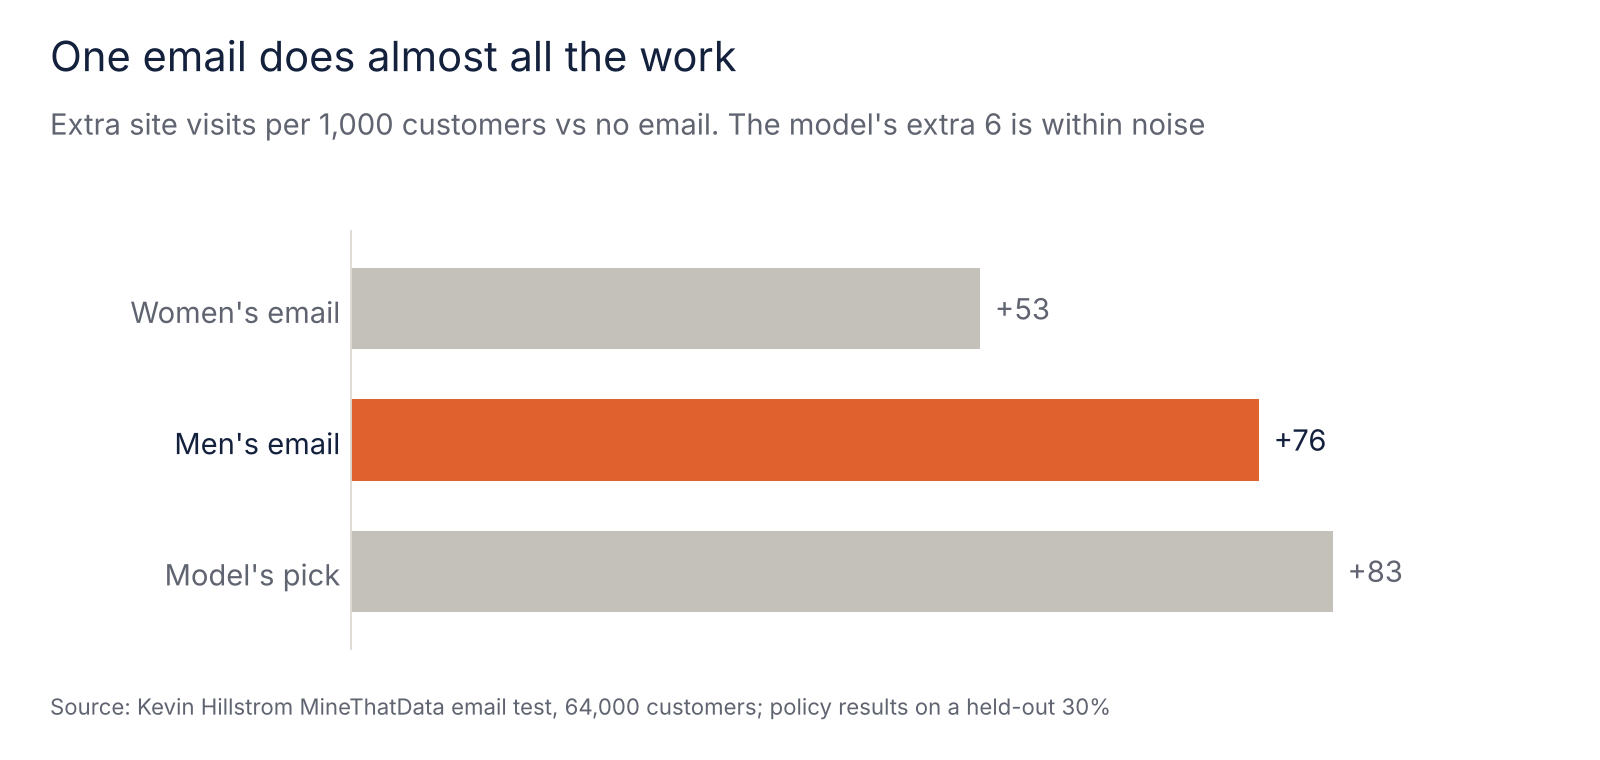
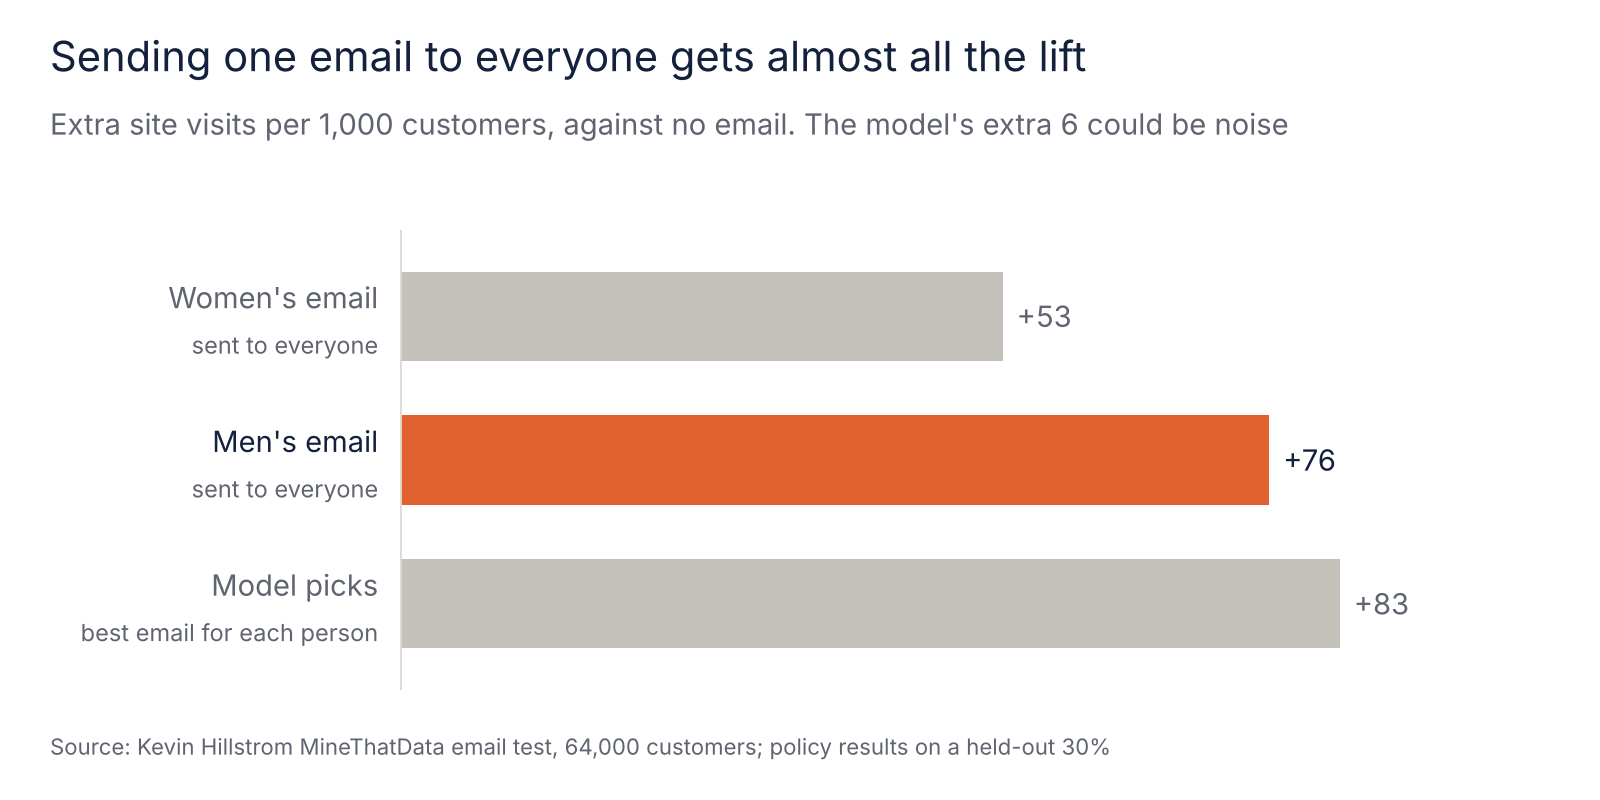
Charts a first-time reader can follow: plain headlines and explained labels

diff --git a/scripts/brand_style.py b/scripts/brand_style.py
@@ -8,6 +8,7 @@ Colours are validated with the dataviz palette checks (lightness band, chroma, c
 import matplotlib
 import matplotlib.pyplot as plt
 import matplotlib.ticker
+import matplotlib.transforms
 
 INK = "#14213d"        # navy: headlines, values, key labels
 MUTED = "#5f6470"      # deck, axis labels, source line (5.9:1 on white)
@@ -93,9 +94,9 @@ VALUE = 10.5                                         # value and category label 
 
 def chart(height=4.5, label_in=1.6, xaxis=False, right_in=0.55):
     """A figure with fixed margins. label_in is the room for category labels on the left;
-    xaxis reserves room for tick labels under the plot."""
+    xaxis reserves room under the plot: True for tick labels plus an axis title, "ticks" for tick labels only."""
     fig = plt.figure(figsize=(WIDTH, height), dpi=200)
-    bottom_in = 1.0 if xaxis else 0.55
+    bottom_in = 0.8 if xaxis == "ticks" else 1.0 if xaxis else 0.55
     left = (LEFT_IN + label_in) / WIDTH
     ax = fig.add_axes([left, bottom_in / height, 1 - left - right_in / WIDTH,
                        1 - (PLOT_TOP_IN + bottom_in) / height])
@@ -123,7 +124,23 @@ def save(fig, path):
     plt.close(fig)
 
 
-def hbar(ax, labels, values, highlight, fmt, color, xmax=None):
+def _row_labels(ax, ys, labels, highlight, sublabels=None):
+    """Category labels at the left of the plot, with an optional smaller second line that explains them."""
+    ax.set_yticks(ys)
+    if not sublabels:
+        ax.set_yticklabels(labels)
+        for i, t in enumerate(ax.get_yticklabels()):
+            t.set_color(INK if i in highlight else MUTED)
+        return
+    ax.set_yticklabels([""] * len(ys))
+    tr = matplotlib.transforms.blended_transform_factory(ax.transAxes, ax.transData)
+    for i, (y, lab, sub) in enumerate(zip(ys, labels, sublabels)):
+        ax.text(-0.02, y + 0.13, lab, transform=tr, ha="right", va="center", fontsize=VALUE,
+                color=INK if i in highlight else MUTED)
+        ax.text(-0.02, y - 0.2, sub, transform=tr, ha="right", va="center", fontsize=8.5, color=MUTED)
+
+
+def hbar(ax, labels, values, highlight, fmt, color, xmax=None, sublabels=None):
     """Horizontal bars, first item at the top. highlight: set of indexes drawn in the project colour."""
     n = len(values)
     ys = list(range(n))[::-1]
@@ -133,14 +150,13 @@ def hbar(ax, labels, values, highlight, fmt, color, xmax=None):
     for y, v, i in zip(ys, values, range(n)):
         c = color if i in highlight else CONTEXT
         ax.barh(y, v, height=0.62, color=c, linewidth=0)
-        ha, x = ("left", v + span * 0.015) if v >= 0 else ("right", v - span * 0.015)
-        ax.text(x, y, fmt(v), va="center", ha=ha, fontsize=VALUE, color=INK if i in highlight else MUTED)
-    ax.set_yticks(ys)
-    ax.set_yticklabels(labels)
-    for i, t in enumerate(ax.get_yticklabels()):
-        t.set_color(INK if i in highlight else MUTED)
+        small_neg = v < 0 and abs(v) < span * 0.05   # label a tiny negative on the right, like the rest
+        ha, x = ("left", max(v, 0) + span * 0.015) if v >= 0 or small_neg else ("right", v - span * 0.015)
+        ax.text(x, y, fmt[i] if isinstance(fmt, list) else fmt(v), va="center", ha=ha, fontsize=VALUE, color=INK if i in highlight else MUTED)
+    _row_labels(ax, ys, labels, highlight, sublabels)
     ax.set_ylim(-0.6, n - 0.4)
-    ax.set_xlim(lo - (span * 0.16 if lo < 0 else 0), hi + span * 0.16)
+    big_neg = lo < -span * 0.05
+    ax.set_xlim(lo - span * 0.3 if big_neg else min(lo, 0), hi + span * 0.16)
     ax.set_xticks([])
     ax.axvline(0, color=HAIRLINE, linewidth=1)
     return ax
@@ -153,7 +169,7 @@ def vbar(ax, labels, values, highlight, fmt, color, ymax=None):
     for x, v, i in zip(xs, values, range(len(values))):
         c = color if i in highlight else CONTEXT
         ax.bar(x, v, width=0.62, color=c, linewidth=0)
-        ax.text(x, v + hi * 0.02, fmt(v), ha="center", va="bottom", fontsize=VALUE,
+        ax.text(x, v + hi * 0.02, fmt[i] if isinstance(fmt, list) else fmt(v), ha="center", va="bottom", fontsize=VALUE,
                 color=INK if i in highlight else MUTED)
     ax.set_xticks(list(xs))
     ax.set_xticklabels(labels)
@@ -165,7 +181,7 @@ def vbar(ax, labels, values, highlight, fmt, color, ymax=None):
     return ax
 
 
-def dotrange(ax, labels, est, lo, hi, highlight, fmt, color, xlim=None, zero=True):
+def dotrange(ax, labels, est, lo, hi, highlight, fmt, color, xlim=None, zero=True, sublabels=None):
     """Estimate with its interval: a dot on a range line, first item at the top."""
     n = len(est)
     ys = list(range(n))[::-1]
@@ -175,10 +191,7 @@ def dotrange(ax, labels, est, lo, hi, highlight, fmt, color, xlim=None, zero=Tru
         ax.scatter([e], [y], s=80, color=c, zorder=3, linewidths=0)
         ax.text(e, y + 0.26, fmt(e), ha="center", va="bottom", fontsize=VALUE,
                 color=INK if i in highlight else MUTED)
-    ax.set_yticks(ys)
-    ax.set_yticklabels(labels)
-    for i, t in enumerate(ax.get_yticklabels()):
-        t.set_color(INK if i in highlight else MUTED)
+    _row_labels(ax, ys, labels, highlight, sublabels)
     ax.set_ylim(-0.6, n - 0.2)
     if xlim:
         ax.set_xlim(*xlim)

diff --git a/scripts/make_charts.py b/scripts/make_charts.py
@@ -17,10 +17,11 @@ base = pol.loc["Email nobody", "visits_per_1000"]
 keys = ["Womens email to everyone", "Mens email to everyone", "Model picks the email, everyone"]
 vals = [pol.loc[k, "visits_per_1000"] - base for k in keys]
 gain = pd.read_csv(RES / "is_the_difference_real.csv").iloc[0]
-fig, ax = b.chart(height=3.8, label_in=1.5)
-b.hbar(ax, ["Women's email", "Men's email", "Model's pick"], vals, {1}, lambda v: f"+{v:.0f}", HL)
-b.titles(fig, "One email does almost all the work",
-         f"Extra site visits per 1,000 customers vs no email. The model's extra {gain.estimate:.0f} is within noise")
+fig, ax = b.chart(height=4.0, label_in=1.75)
+b.hbar(ax, ["Women's email", "Men's email", "Model picks"], vals, {1}, lambda v: f"+{v:.0f}", HL,
+       sublabels=["sent to everyone", "sent to everyone", "best email for each person"])
+b.titles(fig, "Sending one email to everyone gets almost all the lift",
+         f"Extra site visits per 1,000 customers, against no email. The model's extra {gain.estimate:.0f} could be noise")
 b.credit(fig, SRC)
 b.save(fig, OUT / "01_one_email_does_the_work.png")
 
@@ -48,8 +49,8 @@ ax.set_yticks([400, 800])
 ax.set_yticklabels(["$400", "$800"])
 ax.set_xlabel("Cost per contact", fontsize=9.5, color=b.MUTED)
 b.line_axes(ax)
-b.titles(fig, "A targeting model adds little at any contact cost",
-         "Net revenue per 1,000 customers. The shaded gap is what the model adds")
+b.titles(fig, "Picking who to contact adds little, whatever a contact costs",
+         "Net revenue per 1,000 customers. Shaded: the extra from contacting only those a model picks")
 b.credit(fig, SRC)
 b.save(fig, OUT / "02_when_targeting_pays.png")
 print("charts saved")

diff --git a/README.md b/README.md
@@ -27,9 +27,9 @@ The key idea is **uplift**: the value of an email is the extra behaviour it caus
 
 ## Charts
 
-![One email does almost all the work](charts/01_one_email_does_the_work.png)
+![Sending one email to everyone gets almost all the lift](charts/01_one_email_does_the_work.png)
 
-![A targeting model adds little at any contact cost](charts/02_when_targeting_pays.png)
+![Picking who to contact adds little, whatever a contact costs](charts/02_when_targeting_pays.png)
 
 ## Results
 
